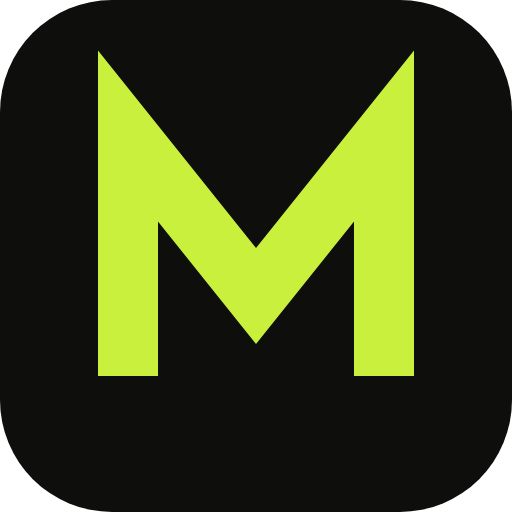
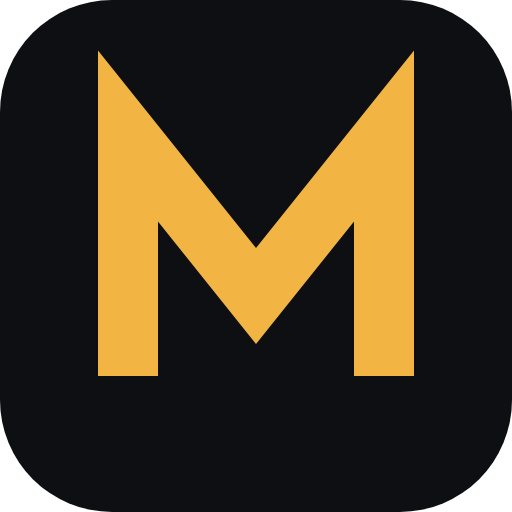
Switch the site accent from lime to amber on a cooler dark base
Tokens, dark contact panel with amber button, neutral project stage colour,
404 page, favicon and icons, social preview image, console greeting and
manifest colour.

Claude-Session: https://claude.ai/code/session_01JRZaVdEBY1k8Qmt5LN9Qhp

Changed region(s): [[0.1875, 0.0938, 0.8125, 0.75]]

diff --git a/app/globals.css b/app/globals.css
@@ -1,11 +1,11 @@
 /* ── Tokens ─────────────────────────────────────────────── */
 :root {
-  --bg: #0e0f0c;
-  --ink: #e9ebe6;
-  --mute: #a9a89f;
-  --lime: #c8f03c;
-  --paper: #e9ebe6;
-  --paper-ink: #0e0f0c;
+  --bg: #0d0f12;
+  --ink: #e8ebef;
+  --mute: #a3a9b2;
+  --lime: #f2b544;
+  --paper: #e8ebef;
+  --paper-ink: #0d0f12;
   --gutter: 32px;
   --step-m: clamp(34px, 3.9vw, 56px);
   --step-l: clamp(52px, 8.6vw, 124px);
@@ -14,7 +14,7 @@
 
 /* ── Base ───────────────────────────────────────────────── */
 *, *::before, *::after { box-sizing: border-box; }
-html { scroll-behavior: smooth; -webkit-text-size-adjust: 100%; scrollbar-color: #3a3c34 var(--bg); }
+html { scroll-behavior: smooth; -webkit-text-size-adjust: 100%; scrollbar-color: #343a42 var(--bg); }
 body {
   margin: 0;
   background: var(--bg);
@@ -33,7 +33,7 @@ ul, ol { list-style: none; }
 a { color: inherit; text-decoration: none; }
 img { display: block; max-width: 100%; height: auto; }
 :focus-visible { outline: 3px solid var(--lime); outline-offset: 3px; }
-.services :focus-visible, .contact :focus-visible, .why :focus-visible { outline-color: var(--bg); }
+.services :focus-visible, .why :focus-visible { outline-color: var(--bg); }
 ::selection { background: var(--lime); color: var(--bg); }
 
 .skip { position: absolute; left: 16px; top: -64px; z-index: 100; background: var(--lime); color: var(--bg); padding: 12px 18px; font-weight: 600; }
@@ -53,7 +53,7 @@ img { display: block; max-width: 100%; height: auto; }
   font-weight: 500;
   transition: transform 160ms var(--ease-out), background-color 160ms ease;
 }
-.btn:hover { background: #d8ff4a; }
+.btn:hover { background: #f7c868; }
 .btn:active { transform: scale(0.97); }
 .btn-light { background: var(--ink); }
 .btn-light:hover { background: #fff; }
@@ -197,12 +197,12 @@ img { display: block; max-width: 100%; height: auto; }
 /* ── Services ───────────────────────────────────────────── */
 .services { background: var(--paper); color: var(--paper-ink); padding: 160px var(--gutter); }
 .services-head { display: grid; grid-template-columns: 1fr 1fr; gap: var(--gutter); align-items: end; align-items: last baseline; margin-bottom: 96px; }
-.services-head p { color: #4a4a43; }
+.services-head p { color: #4a4f57; }
 .service { display: grid; grid-template-columns: 1fr 1fr; gap: var(--gutter); padding: 28px 16px; margin: 0 -16px; align-items: baseline; transition: background-color 200ms ease; }
-.service:hover { background: #dcdfd8; }
+.service:hover { background: #dde1e6; }
 .service h3 { font-size: var(--step-m); font-weight: 700; letter-spacing: -0.035em; line-height: 1.05; }
 .service p { max-width: 520px; }
-.service .tags { color: #4a4a43; margin: 8px 0 0; }
+.service .tags { color: #4a4f57; margin: 8px 0 0; }
 
 /* ── Process ────────────────────────────────────────────── */
 .process { background: var(--bg); padding: 160px var(--gutter); }
@@ -221,10 +221,10 @@ img { display: block; max-width: 100%; height: auto; }
 .mq-toggle:hover { color: var(--ink); }
 .stack-track { display: flex; gap: 0.6em; width: max-content; font-family: var(--font-display), "Onest", sans-serif; font-weight: 800; font-size: var(--step-l); letter-spacing: -0.04em; line-height: 1; text-transform: uppercase; animation: reel 60s linear infinite; }
 .stack-track span { white-space: nowrap; }
-.stack-track span:nth-child(even) { color: #62645a; }
+.stack-track span:nth-child(even) { color: #5b6068; }
 
 /* ── Contact ────────────────────────────────────────────── */
-.contact { background: var(--lime); color: var(--bg); padding: 160px var(--gutter); }
+.contact { background: #12151a; color: var(--ink); padding: 160px var(--gutter); }
 .contact h2 {
   font-size: var(--step-l);
   font-weight: 800;
@@ -236,23 +236,25 @@ img { display: block; max-width: 100%; height: auto; }
 .contact-body { display: grid; grid-template-columns: 1fr 1fr; gap: var(--gutter); align-items: start; }
 .contact-body p { max-width: 520px; }
 .contact-info .contact-links { margin-top: 40px; }
-.btn-dark { background: var(--bg); color: var(--lime); border: 0; cursor: pointer; font: inherit; font-weight: 500; font-size: 18px; padding: 16px 28px; }
-.btn-dark:hover { background: #1c1e18; }
+.contact-links a { color: var(--lime); }
+.btn-dark { background: var(--lime); color: var(--bg); border: 0; cursor: pointer; font: inherit; font-weight: 500; font-size: 18px; padding: 16px 28px; }
+.btn-dark:hover { background: #f7c868; }
 .btn-dark:disabled { opacity: .6; cursor: progress; }
 .cform { display: grid; gap: 18px; }
 .cform label { display: grid; gap: 6px; font-weight: 600; font-size: 16px; }
-.cform input, .cform select, .cform textarea { font: inherit; font-weight: 400; color: var(--bg); background: rgba(255,255,255,.35); border: 2px solid var(--bg); border-radius: 0; padding: 12px 14px; width: 100%; min-height: 48px; }
+.cform input, .cform select, .cform textarea { font: inherit; font-weight: 400; color: var(--ink); background: rgba(255,255,255,.05); border: 1.5px solid #343a42; border-radius: 0; padding: 12px 14px; width: 100%; min-height: 48px; }
 .cform textarea { resize: vertical; min-height: 140px; }
-.cform input[aria-invalid="true"], .cform textarea[aria-invalid="true"] { border-color: #8a1c10; background: rgba(255,255,255,.6); }
+.cform input[aria-invalid="true"], .cform textarea[aria-invalid="true"] { border-color: #ff7a6b; }
+.cform input:focus, .cform textarea:focus, .cform select:focus { border-color: var(--lime); outline: none; }
 .cform .btn-dark { justify-self: start; }
 .cform .hp { position: absolute; left: -9999px; width: 1px; height: 1px; overflow: hidden; }
 .cform-note { font-size: 14px; opacity: .8; max-width: none; }
-.cform-note a, .cform-status a { text-decoration: underline; text-underline-offset: 3px; }
+.cform-note a, .cform-status a { color: var(--lime); text-decoration: underline; text-underline-offset: 3px; }
 .cform-status { min-height: 1.6em; font-weight: 600; max-width: none; }
 .why { background: var(--paper); color: var(--paper-ink); padding: 160px var(--gutter); }
 .quotes { display: grid; grid-template-columns: repeat(auto-fit, minmax(260px, 1fr)); gap: 32px; margin-top: 56px; }
 .quotes blockquote { margin: 0 0 12px; font-size: 20px; }
-.quotes figcaption { font-size: 15px; color: #4a4a43; }
+.quotes figcaption { font-size: 15px; color: #4a4f57; }
 .contact-links { display: flex; flex-direction: column; gap: 12px; font-size: 24px; font-weight: 500; align-items: flex-start; }
 .contact-links .mail { font-size: clamp(22px, 6.2vw, var(--step-m)); font-weight: 700; letter-spacing: -0.03em; white-space: nowrap; }
 
@@ -268,7 +270,7 @@ img { display: block; max-width: 100%; height: auto; }
 .doc-bar a:hover { text-decoration-color: currentColor; }
 .doc h1 { font-weight: 800; font-size: clamp(30px, 8.4vw, 56px); letter-spacing: -0.04em; line-height: 1; overflow-wrap: anywhere; }
 .doc-date { color: var(--mute); font-size: 16px; margin: 16px 0 64px; }
-.doc section { padding: 28px 0; border-top: 1px solid #2a2b26; }
+.doc section { padding: 28px 0; border-top: 1px solid #262a30; }
 .doc h2 { font-size: 24px; font-weight: 700; letter-spacing: -0.02em; margin-bottom: 12px; }
 .doc section p { max-width: 62ch; }
 .doc-foot { color: var(--mute); font-size: 16px; margin-top: 64px; }
@@ -285,11 +287,11 @@ img { display: block; max-width: 100%; height: auto; }
 .doc section a { text-decoration: underline; text-underline-offset: 4px; }
 .case-cta { margin: 40px 0 12px; display: flex; flex-wrap: wrap; gap: 12px; }
 .textlink { display: inline-block; margin-left: 20px; padding-block: 14px; text-decoration: underline; text-decoration-thickness: 2px; text-underline-offset: 6px; }
-.faq { background: var(--bg); padding: 160px var(--gutter); border-top: 1px solid var(--line, #2a2b26); }
+.faq { background: var(--bg); padding: 160px var(--gutter); border-top: 1px solid var(--line, #262a30); }
 .faq h2 { font-size: var(--step-l); font-weight: 800; letter-spacing: -0.04em; line-height: 0.95; margin-bottom: 72px; max-width: 12ch; }
 .faq-list { max-width: 860px; }
-.faq-item { border-top: 1px solid #2a2b26; }
-.faq-item:last-child { border-bottom: 1px solid #2a2b26; }
+.faq-item { border-top: 1px solid #262a30; }
+.faq-item:last-child { border-bottom: 1px solid #262a30; }
 .faq-item summary { cursor: pointer; list-style: none; padding: 24px 40px 24px 0; font-size: 22px; font-weight: 600; letter-spacing: -0.02em; position: relative; }
 .faq-item summary::-webkit-details-marker { display: none; }
 .faq-item summary::after { content: "+"; position: absolute; right: 4px; top: 22px; font-size: 28px; font-weight: 400; color: var(--lime); transition: transform 200ms var(--ease-out); }

diff --git a/lib/data.ts b/lib/data.ts
@@ -24,7 +24,7 @@ export const projects = [
     name: "DizelTrade",
     tags: ["FastAPI", "PostgreSQL", "JavaScript", "Python"],
     subdomain: "dizeltrade",
-    stage: "#c8f03c",
+    stage: "#181b20",
     year: "2025",
   },
   {
@@ -32,7 +32,7 @@ export const projects = [
     name: "RentoWorld",
     tags: ["HTML", "JavaScript", "CSS"],
     subdomain: "rentoworld",
-    stage: "#8fd8ec",
+    stage: "#181b20",
     year: "2025",
   },
   {
@@ -40,7 +40,7 @@ export const projects = [
     name: "TradingLearn",
     tags: ["Next.js", "FastAPI", "PostgreSQL", "TypeScript"],
     subdomain: "tradinglearn",
-    stage: "#34d399",
+    stage: "#181b20",
     year: "2026",
   },
   {
@@ -48,7 +48,7 @@ export const projects = [
     name: "Shipter",
     tags: ["Python", "HTML", "FastAPI"],
     subdomain: "shipter",
-    stage: "#ff9a4d",
+    stage: "#181b20",
     year: "2025",
   },
   {
@@ -56,7 +56,7 @@ export const projects = [
     name: "Stockroom",
     tags: ["React", "TypeScript", "Tailwind", "Vite"],
     subdomain: "storage",
-    stage: "#e6d9a8",
+    stage: "#181b20",
     year: "2026",
   },
   {
@@ -64,7 +64,7 @@ export const projects = [
     name: "CaspianFlow",
     tags: ["Python", "FastAPI", "JavaScript", "Stripe"],
     subdomain: "caspianflow",
-    stage: "#e8b84b",
+    stage: "#181b20",
     year: "2025",
   },
   {
@@ -72,7 +72,7 @@ export const projects = [
     name: "RestOS",
     tags: ["FastAPI", "HTMX", "PostgreSQL", "Python"],
     subdomain: "restaurant",
-    stage: "#f0c9a4",
+    stage: "#181b20",
     year: "2026",
   },
   {
@@ -80,7 +80,7 @@ export const projects = [
     name: "RestOS HR",
     tags: ["FastAPI", "Python", "SQLite", "PWA"],
     subdomain: "hr",
-    stage: "#d98bb8",
+    stage: "#181b20",
     year: "2026",
   },
   {
@@ -88,7 +88,7 @@ export const projects = [
     name: "BotFactory",
     tags: ["React", "TypeScript", "FastAPI", "Telegram"],
     subdomain: "botfactory",
-    stage: "#2f9be3",
+    stage: "#181b20",
     year: "2026",
   },
 ];

diff --git a/tools/og.html b/tools/og.html
@@ -1,19 +1,19 @@
 <!doctype html><meta charset="utf-8">
 <style>
 *{box-sizing:border-box;margin:0}
-body{width:1200px;height:630px;background:#0e0f0c;color:#e9ebe6;font-family:"Onest",system-ui,sans-serif;position:relative;overflow:hidden}
+body{width:1200px;height:630px;background:#0d0f12;color:#e8ebef;font-family:"Onest",system-ui,sans-serif;position:relative;overflow:hidden}
 .shots{position:absolute;right:-60px;top:70px;display:grid;grid-template-columns:repeat(2,300px);gap:16px;transform:rotate(-6deg)}
 .shots span{padding:14px;display:block}
 .shots img{width:100%;border-radius:6px;display:block}
-.fade{position:absolute;inset:0;background:linear-gradient(90deg,#0e0f0c 38%,rgba(14,15,12,0) 75%)}
+.fade{position:absolute;inset:0;background:linear-gradient(90deg,#0d0f12 38%,rgba(14,15,12,0) 75%)}
 .copy{position:absolute;left:64px;top:64px;bottom:64px;width:620px;display:flex;flex-direction:column;justify-content:space-between}
-.tag{font-size:26px;color:#a9a89f}
+.tag{font-size:26px;color:#a3a9b2}
 h1{font-weight:800;font-size:112px;line-height:.92;letter-spacing:-.04em;text-transform:uppercase}
 p{font-size:32px;line-height:1.25;max-width:560px}
-b{display:inline-block;background:#c8f03c;color:#0e0f0c;padding:10px 20px;font-size:26px;font-weight:500;margin-top:24px}
+b{display:inline-block;background:#f2b544;color:#0d0f12;padding:10px 20px;font-size:26px;font-weight:500;margin-top:24px}
 </style>
 <div class="shots">
-<span style="background:#c8f03c"><img src="../public/shots/dizeltrade.webp"></span>
+<span style="background:#f2b544"><img src="../public/shots/dizeltrade.webp"></span>
 <span style="background:#34d399"><img src="../public/shots/tradinglearn.webp"></span>
 <span style="background:#e8b84b"><img src="../public/shots/caspianflow.webp"></span>
 <span style="background:#f0c9a4"><img src="../public/shots/restaurant.webp"></span>

diff --git a/public/not-found.html b/public/not-found.html
@@ -7,7 +7,7 @@
 <title>404 — This page went to production without tests</title>
 <link rel="icon" href="/favicon.svg" type="image/svg+xml">
 <style>
-:root { --bg: #0e0f0c; --ink: #e9ebe6; --mute: #a9a89f; --lime: #c8f03c; --line: #2a2b26; --mono: ui-monospace, "SF Mono", Menlo, Consolas, monospace; }
+:root { --bg: #0d0f12; --ink: #e8ebef; --mute: #a3a9b2; --lime: #f2b544; --line: #262a30; --mono: ui-monospace, "SF Mono", Menlo, Consolas, monospace; }
 * { box-sizing: border-box; }
 html { -webkit-text-size-adjust: 100%; }
 body { margin: 0; min-height: 100svh; background: var(--bg); color: var(--ink); font: 18px/1.5 system-ui, -apple-system, "Segoe UI", Roboto, sans-serif; -webkit-font-smoothing: antialiased; overflow-x: hidden; }
@@ -36,7 +36,7 @@ h1 { margin: 0; font-size: clamp(110px, 31vw, 400px); font-weight: 900; letter-s
 .actions { display: flex; flex-wrap: wrap; gap: 12px; margin-top: 8px; align-items: center; }
 .btn { font: inherit; font-weight: 500; border: 0; cursor: pointer; padding: 15px 26px; text-decoration: none; display: inline-block; transition: transform 160ms cubic-bezier(.23,1,.32,1), background-color 160ms; }
 .btn:active { transform: scale(.97); }
-.btn-lime { background: var(--lime); color: var(--bg); } .btn-lime:hover { background: #d8ff4a; }
+.btn-lime { background: var(--lime); color: var(--bg); } .btn-lime:hover { background: #f7c868; }
 .btn-ghost { background: transparent; color: var(--ink); box-shadow: inset 0 0 0 2px var(--ink); } .btn-ghost:hover { background: rgba(233,235,230,.08); }
 .report { margin-top: 18px; font-size: 15px; color: var(--mute); }
 .report a { color: var(--ink); text-underline-offset: 4px; }

diff --git a/components/eggs.tsx b/components/eggs.tsx
@@ -16,7 +16,7 @@ export function Eggs({ lang }: { lang: Lang }) {
     const timers: number[] = [];
     const later = (fn: () => void, ms: number) => { timers.push(window.setTimeout(fn, ms)); };
 
-    console.log("%cMirelli Studio", "font:800 28px system-ui;color:#c8f03c;background:#0e0f0c;padding:8px 14px");
+    console.log("%cMirelli Studio", "font:800 28px system-ui;color:#f2b544;background:#0d0f12;padding:8px 14px");
     console.log(`${t.console}\n${siteConfig.email}`);
 
     let msg: HTMLDivElement | null = null;
